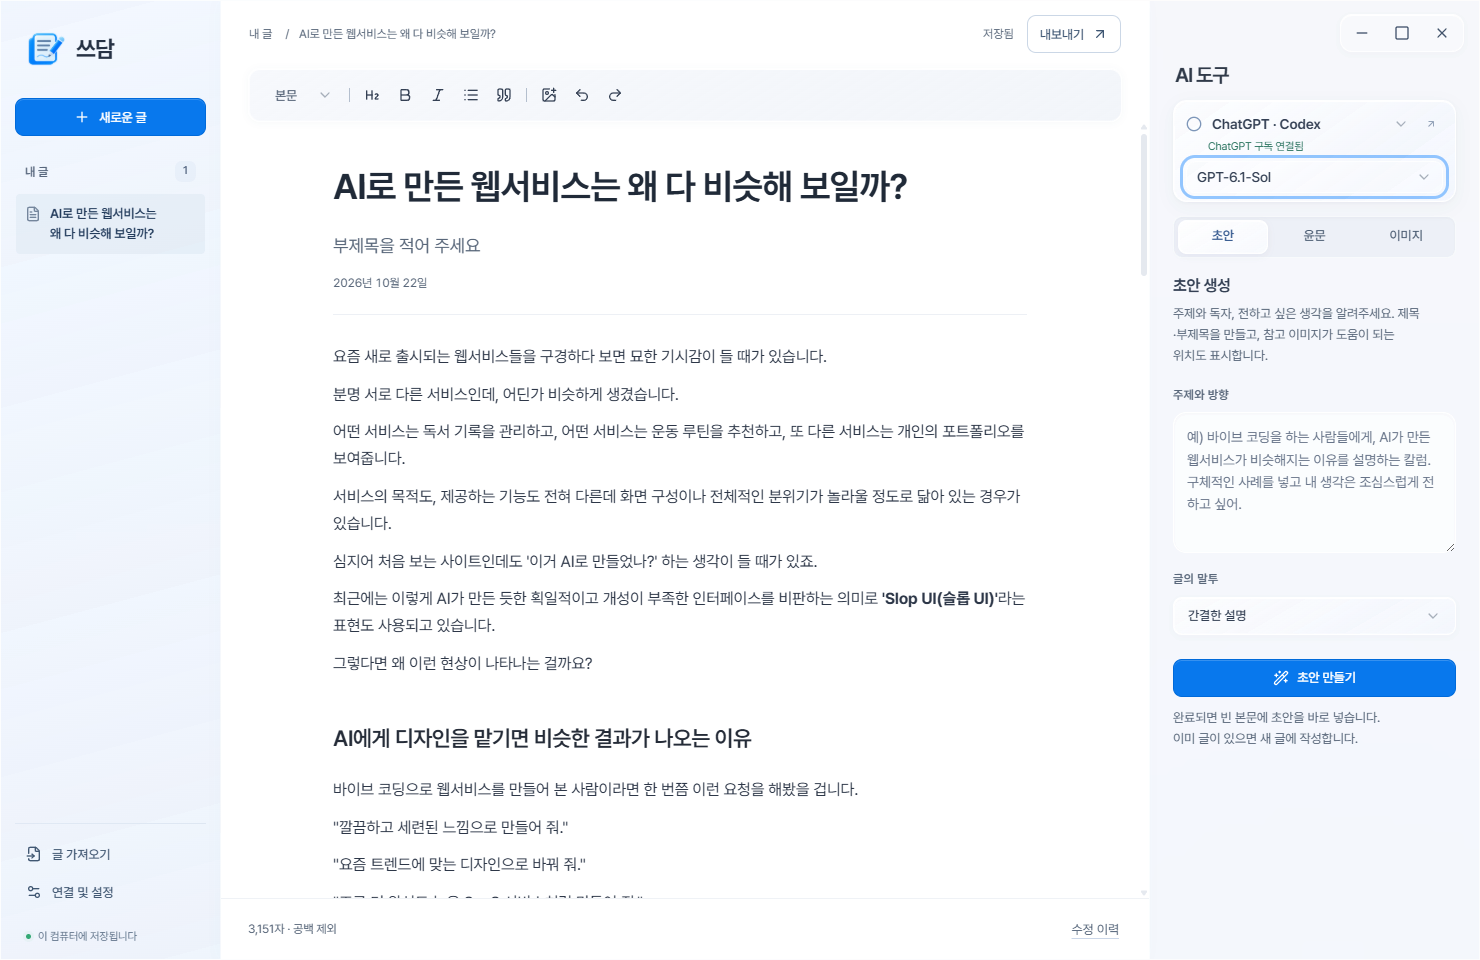
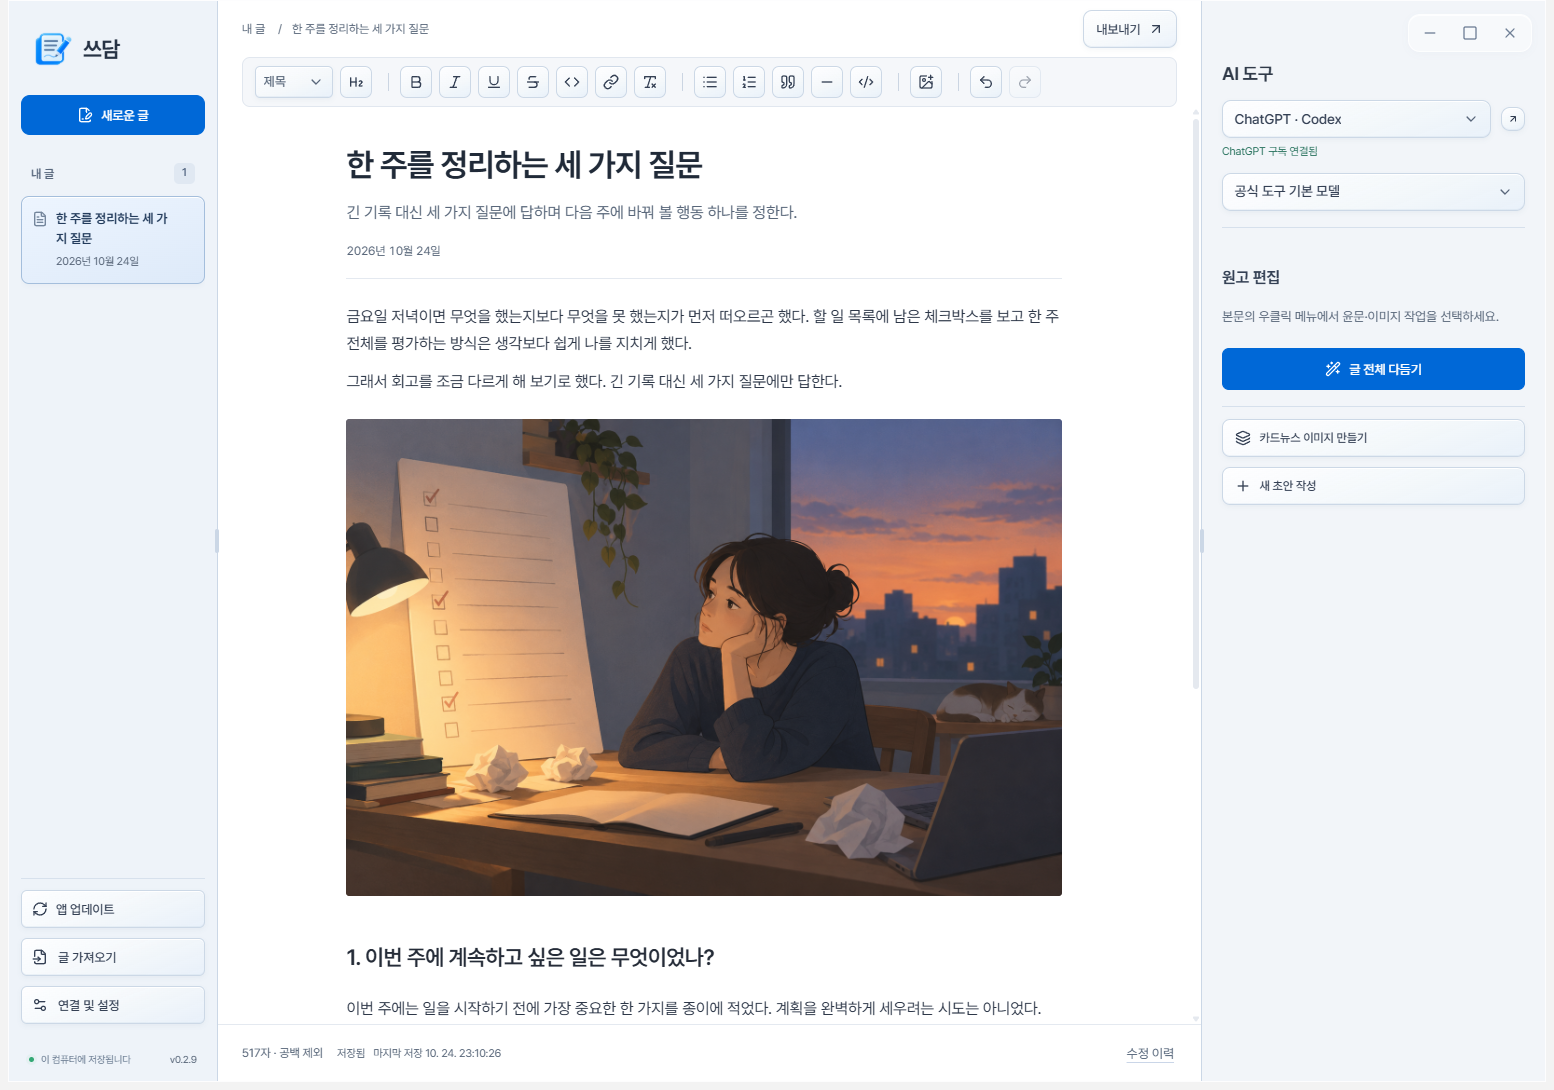
docs: refresh screenshot from current Windows app

diff --git a/README.md b/README.md
@@ -8,7 +8,7 @@
 
 Windows 64비트용 설치 파일을 제공합니다.
 
-![쓰담 앱 화면 — 왼쪽은 내 글 목록, 가운데는 원고 편집기, 오른쪽은 AI 도구](assets/writing-room.png)
+![쓰담 앱 화면 — 왼쪽은 내 글 목록, 가운데는 원고 편집기, 오른쪽은 AI 도구](assets/writing-room.png?v=b52e709639ba)
 
 ## 주요 기능
 
